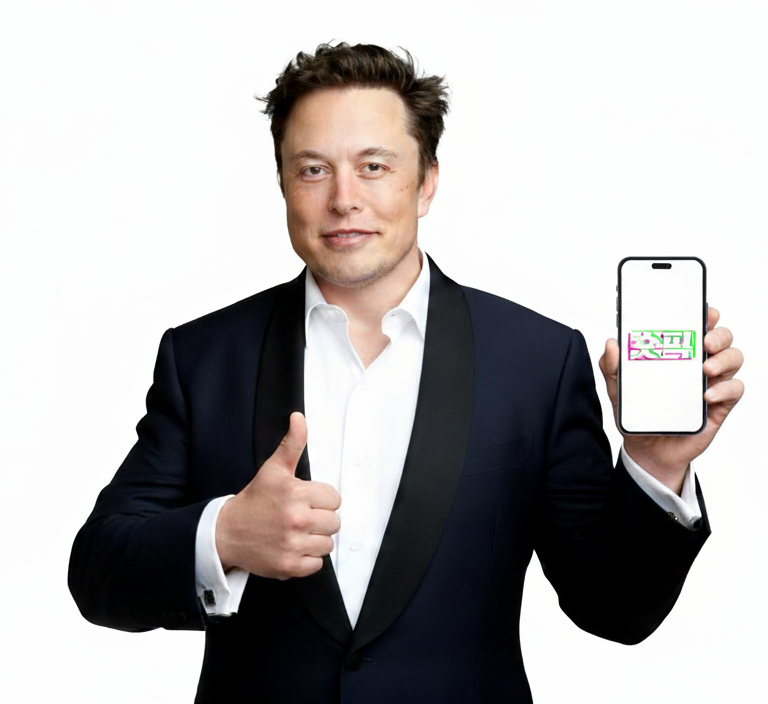
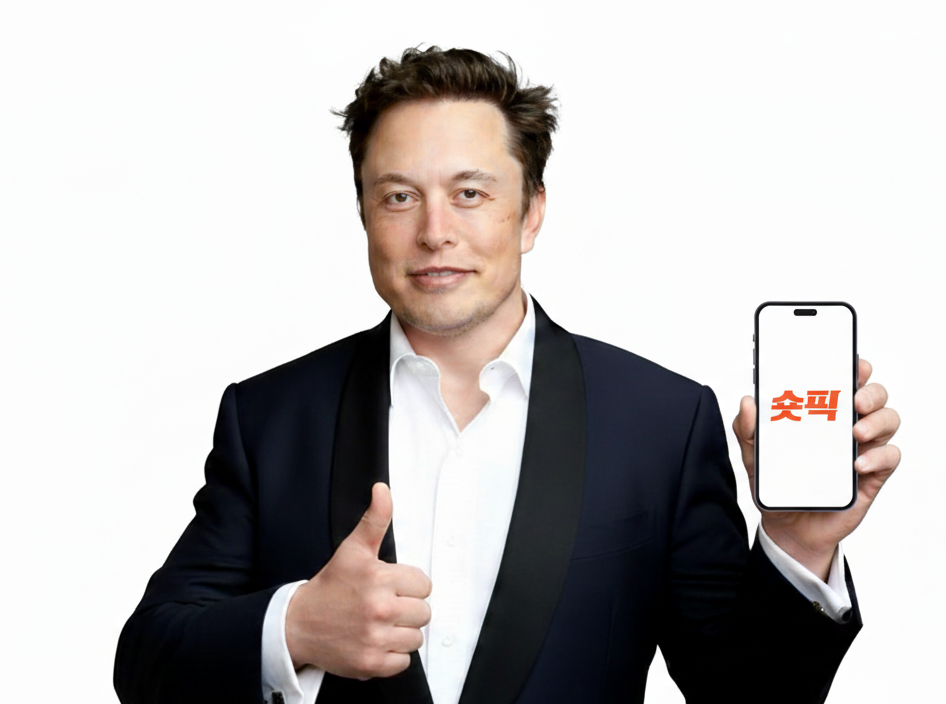
로고 수정

Changed region(s): [[0.0625, 0.0625, 0.9688, 1.0], [0.5938, 0.75, 0.625, 0.7812]]

diff --git a/html/header.html b/html/header.html
@@ -11,7 +11,7 @@
 			<span class="navbar-toggler-icon"></span>
 		</button>
 		<a class="navbar-brand mx-auto" href="#"
-			><img id="logo-image" src="../images/숏픽로고.PNG" width="60"
+			><img id="logo-image" src="../images/숏픽최종로고.PNG" width="60"
 		/></a>
 		<button id="mobile-freeStartBtn" class="btn d-md-none">시작하기</button>
 		<div class="collapse navbar-collapse" id="navbarsExample04">
